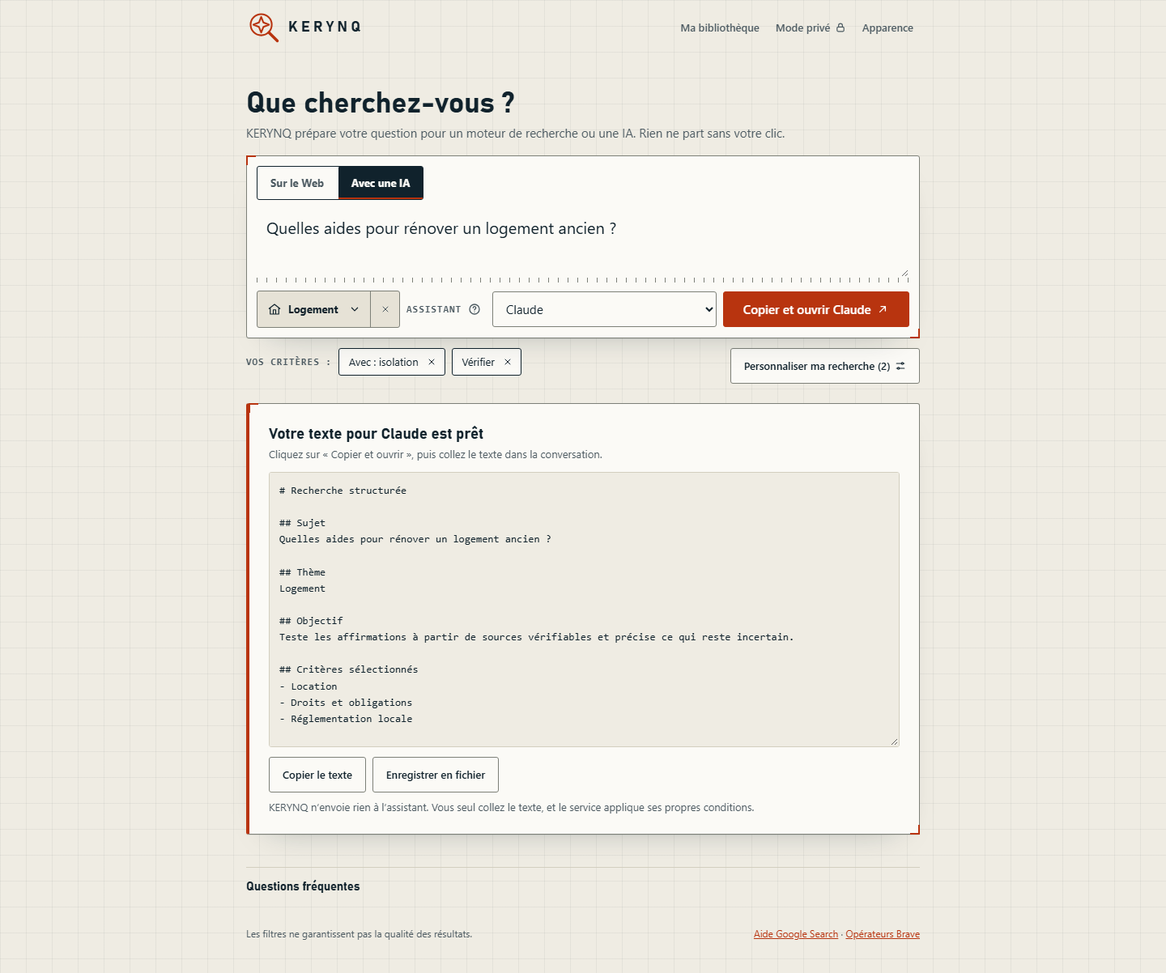
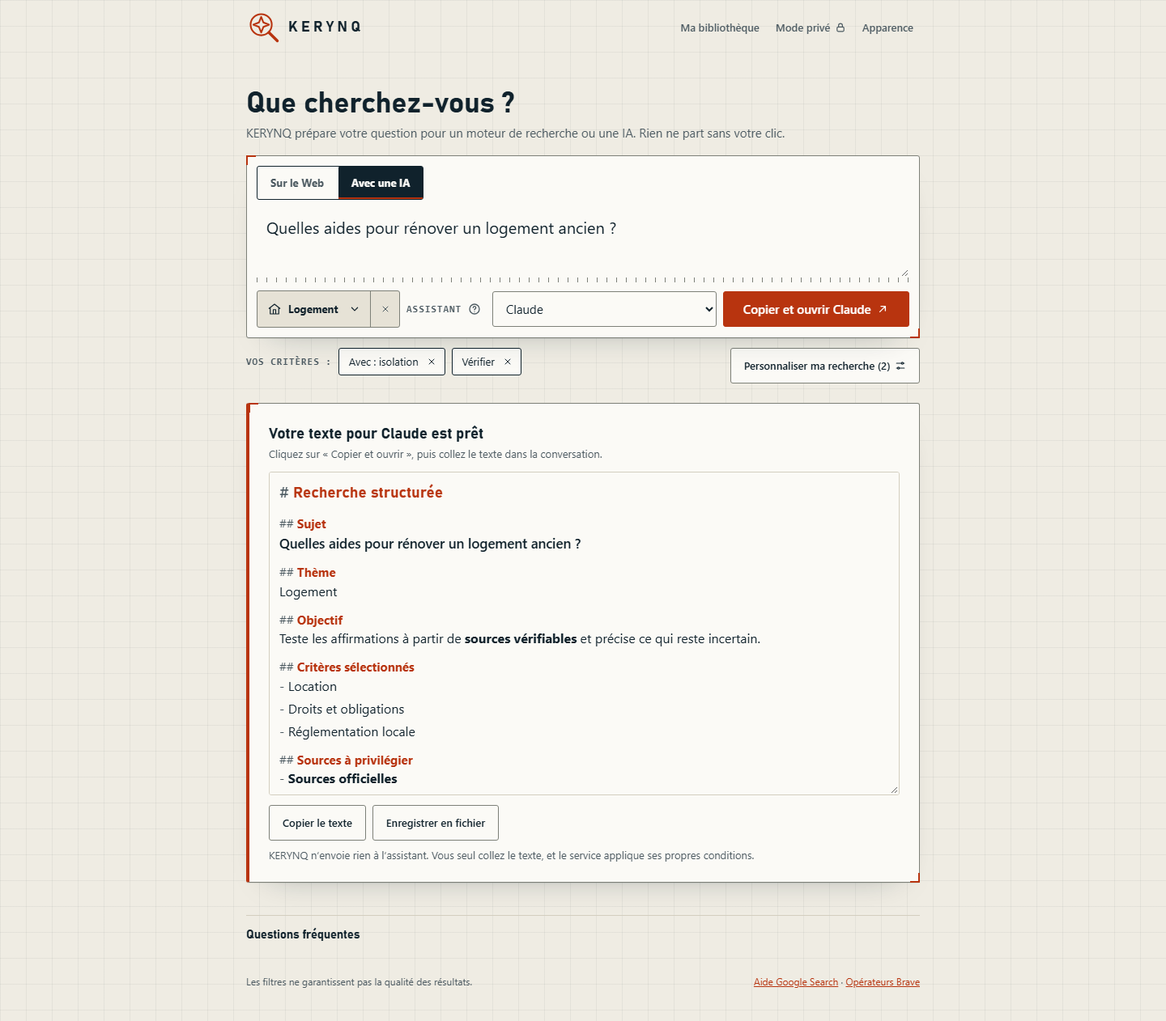
feat: remove Fact Check Explorer and format the AI prompt preview
Render the prompt preview from the unchanged buildPrompt string using text nodes only. Copy and export stay byte-identical, covered by golden tests. Old profiles using the removed engine fall back to Google.

diff --git a/assets/js/app.js b/assets/js/app.js
@@ -157,7 +157,10 @@ function renderSummary(){
  }
  $('refineToggle').textContent='Personnaliser ma recherche'+(all.length?' ('+all.length+')':'');
 }
-function renderResult(){renderSummary();const filled=!!state.topic.trim(),ai=state.previewTab==='prompt';$('resultPreview').classList.toggle('is-empty',!filled);const service=$(ai?'aiProvider':'engineSelect').selectedOptions[0]?.textContent.replace(/ \(.*/,'').replace(/ · .*/,'')||'';$('resultTitle').textContent=ai?'Votre texte pour '+service+' est prêt':'Votre recherche pour '+service+' est prête';$('resultDestination').textContent=ai?'Cliquez sur « Copier et ouvrir », puis collez le texte dans la conversation.':'Cliquez sur « Rechercher » : elle s’ouvrira chez '+service+' dans un nouvel onglet.';$('promptPreview').value=buildPrompt();$('queryPreview').textContent=searchQuery(state.engine)||'';$('copyQuery').disabled=!state.topic.trim();$('runSearch').disabled=!state.topic.trim();for(const el of document.querySelectorAll('[data-engine]'))el.disabled=!state.topic.trim();updatePrimary();renderCompatibility();renderEngineTable();}
+const PROMPT_KEYWORDS=/(\b(?:sources?|dates?|incertitudes?|officiel(?:le)?s?|vérifi\p{L}*)(?![\p{L}]))/giu;
+function appendEmphasis(parent,text){for(const [i,part] of text.split(PROMPT_KEYWORDS).entries())parent.append(i%2?node('strong','pl-key',part):document.createTextNode(part))}
+function renderPromptPreview(){const root=$('promptPreview'),top=root.scrollTop;root.replaceChildren();let list=null;for(const line of KerynqPrompt.structure(buildPrompt())){if(line.type!=='item')list=null;if(line.type==='blank'){root.append(node('div','pl pl-blank'));continue}if(line.type==='title'||line.type==='section'){const h=node(line.type==='title'?'h3':'h4','pl pl-'+line.type);h.append(node('span','pl-marker',line.marker),document.createTextNode(line.text));root.append(h);continue}if(line.type==='item'){if(!list){list=node('ul','pl-list');root.append(list)}const li=node('li','pl pl-item');li.append(node('span','pl-marker',line.marker));if(line.label)li.append(node('span','pl-label',line.label));appendEmphasis(li,line.text);list.append(li);continue}const p=node('p','pl pl-text'+(line.user?' pl-user':''));if(line.user)p.textContent=line.text;else appendEmphasis(p,line.text);root.append(p)}root.scrollTop=top}
+function renderResult(){renderSummary();const filled=!!state.topic.trim(),ai=state.previewTab==='prompt';$('resultPreview').classList.toggle('is-empty',!filled);const service=$(ai?'aiProvider':'engineSelect').selectedOptions[0]?.textContent.replace(/ \(.*/,'').replace(/ · .*/,'')||'';$('resultTitle').textContent=ai?'Votre texte pour '+service+' est prêt':'Votre recherche pour '+service+' est prête';$('resultDestination').textContent=ai?'Cliquez sur « Copier et ouvrir », puis collez le texte dans la conversation.':'Cliquez sur « Rechercher » : elle s’ouvrira chez '+service+' dans un nouvel onglet.';renderPromptPreview();$('queryPreview').textContent=searchQuery(state.engine)||'';$('copyQuery').disabled=!state.topic.trim();$('runSearch').disabled=!state.topic.trim();for(const el of document.querySelectorAll('[data-engine]'))el.disabled=!state.topic.trim();updatePrimary();renderCompatibility();renderEngineTable();}
 
 function switchPreview(tab){state.previewTab=tab;const prompt=tab==='prompt';$('tabPrompt').setAttribute('aria-selected',String(prompt));$('tabWeb').setAttribute('aria-selected',String(!prompt));$('tabPrompt').tabIndex=prompt?0:-1;$('tabWeb').tabIndex=prompt?-1:0;$('panelPrompt').hidden=!prompt;$('panelWeb').hidden=prompt;$('enginePicker').hidden=prompt;$('assistantPicker').hidden=!prompt;$('customAIWrap').hidden=!prompt||state.aiProvider!=='custom';document.body.dataset.destination=tab;$('refineHelp').textContent=prompt?'Tout est facultatif. Ces choix s’ajoutent au texte pour l’IA.':'Tout est facultatif. Ces choix s’appliquent à la recherche sur le Web.';renderCategories();updatePrimary();save();renderResult()}
 function updatePrimary(){const ai=state.previewTab==='prompt';const name=$(ai?'aiProvider':'engineSelect').selectedOptions[0]?.textContent.replace(/ \(.*/,'')||'';$('runSearch').textContent=(ai?'Copier et ouvrir ':'Rechercher sur ')+name}

diff --git a/assets/js/core/catalog-core.js b/assets/js/core/catalog-core.js
@@ -51,7 +51,7 @@ const GOALS=[['explore','Comprendre'],['news','Actualités'],['compare','Compare
 const GOAL_TEXT={explore:'Explique le sujet clairement puis approfondis selon les besoins.',news:'Recherche les informations récentes avec dates de publication et dates des événements.',compare:'Compare les options selon les mêmes critères, avec avantages, limites et sources.',verify:'Teste les affirmations à partir de sources vérifiables et précise ce qui reste incertain.',find:'Identifie les ressources concrètes répondant aux critères, avec accès et disponibilité si pertinent.',calendar:'Construis un calendrier vérifié et distingue annonces confirmées et rumeurs.',recommend:'Propose des recommandations adaptées au sujet en justifiant tes choix.',deep:'Mène une recherche en plusieurs axes et présente aussi les contradictions et limites.'};
 const SOURCES=[['official','Sources officielles'],['press','Presse et médias'],['community','Communautés / forums'],['specialists','Experts / critiques'],['science','Études et données'],['archives','Archives'],['videos','Vidéos / interviews'],['shops','Boutiques / catalogues']];
 const FORMATS=[['summary','Résumé simple'],['table','Tableau comparatif'],['sources','Liens et références'],['timeline','Chronologie'],['guide','Guide pratique'],['ideas','Recommandations'],['detail','Analyse détaillée']];
-const ENGINE_IDS=Object.freeze(['google','brave','duck','bing','qwant','startpage','scholar','pubmed','arxiv','youtube','wikipedia','github','reddit','bingnews','factcheck','archive','shodan','datagouv','openlibrary','myanimelist','steam','musicbrainz','openstreetmap','googleimages','bingimages','braveimages','duckimages','commons','flickr']);
+const ENGINE_IDS=Object.freeze(['google','brave','duck','bing','qwant','startpage','scholar','pubmed','arxiv','youtube','wikipedia','github','reddit','bingnews','archive','shodan','datagouv','openlibrary','myanimelist','steam','musicbrainz','openstreetmap','googleimages','bingimages','braveimages','duckimages','commons','flickr']);
 const THEMES=Object.freeze([['kerynq','KERYNQ'],['dark','Nuit'],['light','Clair'],['pro','Pro'],['cyber','Cyber'],['girly','Girly'],['aurora','Aurore'],['manga','Manga'],['medecine','Médecine'],['tuning','Tuning'],['animaux','Animaux'],['finance','Finance']]);
 const DEFAULT={promptStyle:'detailed',topic:'',category:'general',goal:'explore',options:{},custom:{},sources:['official','press'],formats:['summary','sources'],period:'all',language:'fr-en',dateFrom:'',dateTo:'',region:'',filetype:'',includeWords:'',excludeWords:'',includeSites:'',excludeSites:'',context:'',showAll:false,theme:'kerynq',largeText:false,previewTab:'web',engine:'google',mode:'simple',aiProvider:'chatgpt',customAIUrl:''};
 const AI_PROVIDERS=Object.freeze({chatgpt:'https://chatgpt.com/',claude:'https://claude.ai/new',gemini:'https://gemini.google.com/app',kimi:'https://kimi.com/',grok:'https://grok.com/',deepseek:'https://chat.deepseek.com/',perplexity:'https://www.perplexity.ai/',mistral:'https://chat.mistral.ai/',copilot:'https://copilot.com/'});

diff --git a/assets/js/core/search-query-core.js b/assets/js/core/search-query-core.js
@@ -27,7 +27,6 @@
     {id:'github',label:'GitHub',group:'special',field:'Code',url:'https://github.com/search?q=',ops:{words:true}},
     {id:'reddit',label:'Reddit',group:'special',field:'Communautés',url:'https://www.reddit.com/search/?q=',ops:{words:true}},
     {id:'bingnews',label:'Bing Actualités',group:'special',field:'Journalisme et actualité',url:'https://www.bing.com/news/search?q=',ops:{words:true}},
-    {id:'factcheck',label:'Fact Check Explorer',group:'special',field:'Vérification des faits',url:'https://toolbox.google.com/factcheck/explorer/search/',ops:{words:true}},
     {id:'archive',label:'Internet Archive',group:'special',field:'OSINT et archives',url:'https://archive.org/search?query=',ops:{words:true}},
     {id:'shodan',label:'Shodan',group:'special',field:'OSINT et services exposés',url:'https://www.shodan.io/search?query=',ops:{words:true}},
     {id:'datagouv',label:'data.gouv.fr',group:'special',field:'Données publiques',url:'https://www.data.gouv.fr/datasets/search?q=',ops:{words:true}},
@@ -45,7 +44,7 @@
   ]);
   const engines = ENGINES.map(e => e.id);
   // Simple suggestion par univers : elle ne change jamais le moteur sans clic.
-  const SUGGESTIONS = Object.freeze({health:'pubmed',science:'scholar',space:'arxiv',ai:'github',tech:'github',cyber:'github',history:'wikipedia',culture:'wikipedia',films:'youtube',series:'youtube',learning:'youtube',manga:'myanimelist',anime:'myanimelist',music:'musicbrainz',games:'steam',books:'openlibrary',news:'bingnews',politics:'factcheck',osint:'archive',economy:'datagouv',environment:'datagouv',travel:'openstreetmap',transport:'openstreetmap'});
+  const SUGGESTIONS = Object.freeze({health:'pubmed',science:'scholar',space:'arxiv',ai:'github',tech:'github',cyber:'github',history:'wikipedia',culture:'wikipedia',films:'youtube',series:'youtube',learning:'youtube',manga:'myanimelist',anime:'myanimelist',music:'musicbrainz',games:'steam',books:'openlibrary',news:'bingnews',osint:'archive',economy:'datagouv',environment:'datagouv',travel:'openstreetmap',transport:'openstreetmap'});
   function engineById(id) { return ENGINES.find(e => e.id === id) || ENGINES[0]; }
   function suggestedEngine(topicId) { return Object.prototype.hasOwnProperty.call(SUGGESTIONS,topicId) ? engineById(SUGGESTIONS[topicId]) : null; }
   const filetypes = ['pdf', 'docx', 'xlsx', 'pptx'];

diff --git a/assets/css/styles.css b/assets/css/styles.css
@@ -228,8 +228,17 @@ h1 label{display:inline;margin:0;font:inherit;letter-spacing:inherit;text-transf
 @keyframes appear{from{opacity:0;transform:translateY(6px)}}
 .preview-panel{margin-top:var(--s3)}
 .preview-panel:focus{outline:none}
-.preview-field,.preview-mono{display:block;width:100%;border:1px solid var(--line);border-radius:var(--radius-sm);background:var(--bg);padding:var(--s3);font:var(--t-sm)/1.55 ui-monospace,"Cascadia Code",Consolas,monospace}
-.preview-field{height:340px;resize:vertical}
+.prompt-preview,.preview-mono{display:block;width:100%;border:1px solid var(--line);border-radius:var(--radius-sm);background:var(--bg);padding:var(--s3);font:var(--t-sm)/1.55 ui-monospace,"Cascadia Code",Consolas,monospace}
+.prompt-preview{height:400px;resize:vertical;overflow:auto;background:var(--surface);font:var(--t-md)/1.55 inherit;font-family:inherit;white-space:pre-wrap}
+.prompt-preview h3,.prompt-preview h4,.prompt-preview ul,.prompt-preview p{margin:0;padding:0}
+.pl-title{font-family:var(--display);font-size:var(--t-lg);font-weight:720;color:var(--accent)}
+.pl-section{font-size:var(--t-md);font-weight:700;color:var(--accent)}
+.pl-marker{color:var(--muted);font-weight:400}
+.pl-blank{height:var(--s3)}
+.pl-list{list-style:none;display:grid;gap:var(--s1)}
+.pl-item{padding-left:1.1em;text-indent:-1.1em}
+.pl-label,.pl-key{font-weight:650}
+.pl-user{font-weight:600;font-size:1.05em}
 .preview-mono{white-space:pre-wrap;font-size:var(--t-md)}
 .preview-actions,.go-search,.action-row{display:flex;gap:var(--s2);flex-wrap:wrap;margin-top:var(--s3)}
 .go-search{margin:0}
@@ -324,6 +333,6 @@ body[data-destination="web"] .only-ai{display:none}
   .prepared{padding:var(--s4)}
   .preview-actions .btn{flex:1 1 auto}
   .sheet-head,.sheet-body{padding-inline:var(--s4)}
-  .preview-field{height:280px}
+  .prompt-preview{height:320px}
 }
 @media(prefers-reduced-motion:reduce){*,*::before,*::after{scroll-behavior:auto!important;transition:none!important;animation:none!important}}

diff --git a/assets/js/core/prompt-core.js b/assets/js/core/prompt-core.js
@@ -47,5 +47,22 @@
     const quality = short ? QUALITY_SHORT : QUALITY;
     return {method:[...method],quality:assistant ? [...quality,assistant] : [...quality]};
   }
-  return Object.freeze({guidance,FAMILY_METHODS,TOPIC_METHODS});
+  // Découpe la consigne pour l'affichage seulement : chaque ligne d'origine reste intacte dans raw.
+  const TITLES = ['Recherche structurée','Sujet','Thème','Objectif','Précisions','Critères sélectionnés','Sources à privilégier','Format de réponse','Périmètre','Méthode pour ce domaine','Qualité et fiabilité'];
+  const USER_SECTIONS = ['Sujet','Précisions'];
+  function structure(text) {
+    let section = '';
+    return String(text).split('\n').map(raw => {
+      const title = /^(#{1,2}) (.+)$/.exec(raw);
+      if (title && TITLES.includes(title[2])) { section = title[2]; return {type:title[1].length===1?'title':'section',raw,marker:title[1]+' ',text:title[2]}; }
+      if (!raw) return {type:'blank',raw};
+      const user = USER_SECTIONS.includes(section);
+      if (!user && raw.startsWith('- ')) {
+        const label = /^- ([^:]{1,40} : )(.*)$/.exec(raw);
+        return label ? {type:'item',raw,marker:'- ',label:label[1],text:label[2]} : {type:'item',raw,marker:'- ',label:'',text:raw.slice(2)};
+      }
+      return {type:'text',raw,text:raw,user};
+    });
+  }
+  return Object.freeze({guidance,structure,FAMILY_METHODS,TOPIC_METHODS});
 });

diff --git a/index.html b/index.html
@@ -75,7 +75,7 @@
   <div id="resultEmpty" class="result-empty"><p class="sub">Pour essayer :</p><div id="examples" class="example-row" role="group" aria-label="Exemples de questions"></div></div>
   <div class="when-filled result-head"><h2 id="resultTitle">Votre recherche est prête</h2><p class="sub" id="resultDestination"></p></div>
   <section id="panelPrompt" class="preview-panel" role="tabpanel" aria-labelledby="tabPrompt" tabindex="-1"><div class="when-filled">
-    <label for="promptPreview" class="sr-only">Texte à coller dans l’assistant</label><textarea id="promptPreview" class="preview-field" readonly spellcheck="false"></textarea>
+    <div id="promptPreview" class="prompt-preview" role="region" aria-label="Texte à coller dans l’assistant" tabindex="0"></div>
     <div class="preview-actions"><button type="button" class="btn" id="copyPrompt">Copier le texte</button><button type="button" class="btn" id="downloadPrompt">Enregistrer en fichier</button></div>
     <p id="aiTransferNote" class="note">KERYNQ n’envoie rien à l’assistant. Vous seul collez le texte, et le service applique ses propres conditions.</p>
   </div></section>

diff --git a/service-worker.js b/service-worker.js
@@ -1,5 +1,5 @@
 // Offline cache for local UI assets only. Does not cache external search results.
-const CACHE = 'kerynq-static-v18';
+const CACHE = 'kerynq-static-v19';
 const CORE = ['./', './index.html', './assets/js/core/search-query-core.js', './assets/js/core/privacy-core.js', './assets/js/core/prompt-core.js', './assets/js/core/catalog-core.js', './assets/js/app.js', './assets/js/register-sw.js', './assets/css/styles.css', './assets/icons/favicon.svg', './manifest.webmanifest'];
 self.addEventListener('install', event => event.waitUntil(caches.open(CACHE).then(cache => cache.addAll(CORE)).then(() => self.skipWaiting())));
 self.addEventListener('activate', event => event.waitUntil(caches.keys().then(names => Promise.all(names.filter(name => name.startsWith('kerynq-static-') && name !== CACHE).map(name => caches.delete(name)))).then(() => self.clients.claim())));

diff --git a/tests/browser/regressions-browser-smoke.py b/tests/browser/regressions-browser-smoke.py
@@ -24,6 +24,7 @@ def settings(page):
     page.locator('#refineToggle').click();page.evaluate("document.querySelectorAll('#refinePanel details').forEach(d=>d.open=true)")
 def library(page):
     page.locator('#libraryToggle').click();page.evaluate("document.querySelectorAll('#libraryPanel details').forEach(d=>d.open=true)")
+PROMPT="[...document.querySelectorAll('#promptPreview .pl')].map(e=>e.textContent).join('\\n')"
 overflow=lambda page:page.evaluate('document.documentElement.scrollWidth-document.documentElement.clientWidth')
 with sync_playwright() as p:
     browser=p.chromium.launch(headless=True,executable_path=os.environ.get('KERYNQ_CHROMIUM') or None)
@@ -131,11 +132,11 @@ with sync_playwright() as p:
         page.locator('#engineSelect').select_option('duck')
         assert page.locator('#engineTableName').inner_text()=='DuckDuckGo' and page.locator('#engineTable tr:nth-child(4) td').inner_text()=='Non transmis'
         assert overflow(page)<=2
-        assert page.locator('#engineButtons .btn').count()==29
+        assert page.locator('#engineButtons .btn').count()==28
         assert not errors,errors;ctx.close()
         # Consigne : format et assistant conservés.
         ctx,page,errors=open_app(browser,width,{'kerynq-premium-v5':{'previewTab':'prompt','category':'osint','topic':'Sujet'}})
-        prompt=lambda:page.locator('#promptPreview').input_value()
+        prompt=lambda:page.evaluate(PROMPT)
         assert 'Méthode pour ce domaine' in prompt() and 'pas accès au Web' in prompt()
         long=len(prompt());settings(page);page.locator('#promptStyle').select_option('short');page.locator('#refineClose').click()
         assert len(prompt())<long
@@ -234,10 +235,36 @@ with sync_playwright() as p:
         # Requêtes et consignes identiques à celles de main avant la refonte.
         for case in golden['cases']:
             ctx,page,errors=open_app(browser,width,{'kerynq-premium-v5':case['input']})
-            assert page.locator('#promptPreview').input_value()==case['prompt'],case['input']
+            assert page.evaluate(PROMPT)==case['prompt'],case['input']
+            # Copie et export : exactement le texte d'avant, sans HTML.
+            page.evaluate("()=>{document.execCommand=()=>{window.kerynqTestCopy=document.activeElement.value;return true}}")
+            page.locator('#tabPrompt').click();page.locator('#copyPrompt').click()
+            page.wait_for_function('window.kerynqTestCopy!==undefined')
+            assert page.evaluate('window.kerynqTestCopy')==case['prompt'],case['input']
+            with page.expect_download() as dl:page.locator('#downloadPrompt').click()
+            assert Path(dl.value.path()).read_bytes().decode('utf-8')==case['prompt']+'\n',case['input']
             now=page.evaluate("s=>Object.fromEntries(%s.map(id=>[id,KerynqSearch.compile(KerynqCatalog.normalize(s),id,new Date('2026-01-15T12:00:00')).query]))"%json.dumps(golden['engines']),case['input'])
             assert now==case['queries'],case['input']
             ctx.close()
+        # Le contenu utilisateur reste du texte ; titres à la couleur d'accent du thème.
+        ctx,page,errors=open_app(browser,width,{'kerynq-premium-v5':{'previewTab':'prompt','topic':'<img src=x onerror=window.pwned=1>\n## Faux'}})
+        assert page.locator('#promptPreview img').count()==0 and not page.evaluate('window.pwned') and '<img src=x' in page.evaluate(PROMPT)
+        assert page.locator('#promptPreview h4',has_text='Faux').count()==0 and page.locator('#promptPreview h4').count()>=3
+        accent=page.evaluate("(()=>{const d=document.createElement('i');d.className='link-button';document.body.append(d);const c=getComputedStyle(d).color;d.remove();return c})()")
+        assert page.evaluate("getComputedStyle(document.querySelector('.pl-section')).color")==accent
+        assert overflow(page)<=2 and not errors,errors;ctx.close()
+        # Fact Check Explorer retiré : anciens profil et favori reviennent à Google, aperçu Web inchangé.
+        ctx,page,errors=open_app(browser,width,{'kerynq-premium-v5':{'previewTab':'web','topic':'Sujet','engine':'factcheck'},'kerynq-saved-v1':[GOOD('f','Ancien favori',engine='factcheck')]})
+        assert page.locator('#engineSelect').input_value()=='google' and page.locator('#engineSelect option[value="factcheck"]').count()==0
+        assert page.locator('#queryPreview').evaluate('e=>e.tagName')=='OUTPUT' and page.locator('#queryPreview').text_content()=='Sujet'
+        library(page);page.get_by_role('button',name='Charger le favori Ancien favori').click()
+        assert page.locator('#engineSelect').input_value()=='google' and not errors,errors
+        ctx.close()
+        # L'objectif Vérifier reste disponible ; Politique n'a plus de moteur conseillé.
+        ctx,page,errors=open_app(browser,width,{'kerynq-premium-v5':{'previewTab':'web','topic':'Mesure','goal':'verify','category':'politics'}})
+        assert page.locator('#engineSuggest').is_hidden()
+        page.locator('#tabPrompt').click();assert 'Teste les affirmations' in page.evaluate(PROMPT)
+        ctx.close()
         # Un fournisseur importé ne peut pas viser une propriété héritée.
         ctx,page,errors=open_app(browser,width,{'kerynq-premium-v5':{'aiProvider':'constructor'}})
         assert page.locator('#aiProvider').input_value()=='chatgpt'

diff --git a/tests/browser/univers-browser-smoke.py b/tests/browser/univers-browser-smoke.py
@@ -36,7 +36,7 @@ with sync_playwright() as p:
    assert name in page.locator('#specificTitle').text_content()
    assert page.locator('#specialFilters input[type=checkbox]').count()>=7
    page.locator('#topic').fill('Question de test')
-   prompt=page.locator('#promptPreview').input_value()
+   prompt=page.locator('#promptPreview').text_content()
    assert name in prompt and 'Question de test' in prompt
    if id in ('law','administration','personalfinance','housing'):
     assert 'juridiction' in prompt.lower()
@@ -52,7 +52,7 @@ with sync_playwright() as p:
   page.locator('#categorySearch').fill('santé')
   health=page.locator('[data-category-id="health"]');assert health.count()==1;health.click()
   assert 'Médecine' in page.locator('#specificTitle').text_content()
-  assert 'diagnostic' in page.locator('#promptPreview').input_value().lower()
+  assert 'diagnostic' in page.locator('#promptPreview').text_content().lower()
   assert not errors,(width,errors)
   dim=page.evaluate('({a:document.documentElement.scrollWidth,b:document.documentElement.clientWidth})')
   assert dim['a']<=dim['b']+2,(width,dim)

diff --git a/docs/HANDOFF_CLAUDE_CODE.md b/docs/HANDOFF_CLAUDE_CODE.md
@@ -6,7 +6,7 @@
 
 Nom : **KERYNQ** (« Explorez. Affinez. Découvrez. »). Dépôt : https://github.com/loic31000/KERYNQ. L'application reste **privée, en prépublication**, et a vocation à fonctionner gratuitement sur GitHub Pages **uniquement quand le propriétaire choisira de la rendre publique**.
 
-KERYNQ est un atelier de recherche personnalisée, non un moteur d'indexation. Le traitement local construit des requêtes vers 29 moteurs (`MOTEURS.md`), et des consignes destinées à ChatGPT, Claude, Gemini, Kimi, Grok, DeepSeek, Perplexity, Mistral Vibe, Copilot et une URL HTTPS personnalisée. Les assistants ne reçoivent **aucune consigne automatiquement**. La recherche et les pages IA s'ouvrent à l'initiative de l'utilisateur.
+KERYNQ est un atelier de recherche personnalisée, non un moteur d'indexation. Le traitement local construit des requêtes vers 28 moteurs (`MOTEURS.md`), et des consignes destinées à ChatGPT, Claude, Gemini, Kimi, Grok, DeepSeek, Perplexity, Mistral Vibe, Copilot et une URL HTTPS personnalisée. Les assistants ne reçoivent **aucune consigne automatiquement**. La recherche et les pages IA s'ouvrent à l'initiative de l'utilisateur.
 
 ## État à jour
 
@@ -61,7 +61,7 @@ Relancer les tests depuis `main` sur le PC de développement. **Ne pas présente
 - Si la taille du HTML rend les changements risqués, modulariser **sans briser l'ouverture directe du fichier** ou fournir une version autonome de distribution.
 
 ### Priorité 3 : recherches et IA avancées, après stabilisation
-- Moteurs : 29 intégrés. À confirmer manuellement : ceux listés comme écartés dans `MOTEURS.md`.
+- Moteurs : 28 intégrés. À confirmer manuellement : ceux listés comme écartés dans `MOTEURS.md`.
 - Ajouter des favoris de fournisseurs, modèles de consignes, et une comparaison **manuelle** multi-moteurs ou multi-IA si cela reste utile.
 - Préserver un fonctionnement local, sans télémétrie ni transmission masquée de requêtes sensibles.
 

diff --git a/docs/UX_REFONTE.md b/docs/UX_REFONTE.md
@@ -66,7 +66,7 @@ Thèmes : voir [DESIGN_SYSTEM.md](DESIGN_SYSTEM.md).
 
 ## Équivalence
 
-`tests/browser/golden-queries.json` contient les sorties de `main` : 4 jeux de réglages, 23 moteurs et les consignes IA. `tests/browser/golden-themes.json` fige les couleurs, polices et rayons des 11 thèmes historiques. `regressions-browser-smoke.py` compare les deux à la version actuelle.
+`tests/browser/golden-queries.json` contient les sorties de `main` : 4 jeux de réglages, les 22 moteurs de l'époque encore présents et les consignes IA. `tests/browser/golden-themes.json` fige les couleurs, polices et rayons des 11 thèmes historiques. `regressions-browser-smoke.py` compare les deux à la version actuelle.
 
 ## Contrôles
 
@@ -82,3 +82,7 @@ Non vérifié : avis d'utilisateurs réels, Safari et Chrome réels, téléphone
 - La police du thème KERYNQ (Bahnschrift) dépend de l'appareil, avec une police de repli.
 - Retirer un critère personnel le décoche sans le supprimer.
 - Un profil enregistré avec un nom de thème inconnu passe au thème KERYNQ.
+
+## Aperçu du texte pour l'IA
+
+Le texte est affiché en HTML structuré : titres de section à la couleur d'accent du thème, libellés en gras, listes espacées, quelques mots-clés renforcés. La chaîne de `buildPrompt()` reste la seule source : la copie et l'export la reprennent telle quelle, sans HTML. `KerynqPrompt.structure` découpe les lignes, et l'affichage passe uniquement par `textContent` et des nœuds de texte. Les marques Markdown restent visibles en discret. Seuls les titres de section connus sont stylés comme des titres : la question de l'utilisateur reste du texte simple.

diff --git a/CLAUDE.md b/CLAUDE.md
@@ -4,7 +4,7 @@ Lire ce fichier en premier, puis [docs/HANDOFF_CLAUDE_CODE.md](docs/HANDOFF_CLAU
 
 ## Objectif et périmètre
 
-KERYNQ est une application de recherche **100 % statique, gratuite et utilisable sur GitHub Pages**. Elle prépare des requêtes pour 29 moteurs Web (voir `docs/MOTEURS.md`) et des consignes à copier manuellement dans plusieurs assistants IA. **Elle n'indexe pas les résultats**. Il y a 39 univers et 8 familles, des favoris locaux, des modèles, un mode privé et une importation/exportation JSON.
+KERYNQ est une application de recherche **100 % statique, gratuite et utilisable sur GitHub Pages**. Elle prépare des requêtes pour 28 moteurs Web (voir `docs/MOTEURS.md`) et des consignes à copier manuellement dans plusieurs assistants IA. **Elle n'indexe pas les résultats**. Il y a 39 univers et 8 familles, des favoris locaux, des modèles, un mode privé et une importation/exportation JSON.
 
 Conserver le coût d'hébergement à 0 euro et le fonctionnement sans serveur, API IA obligatoire, compte, tracking, clé secrète ou service tiers payant.
 
